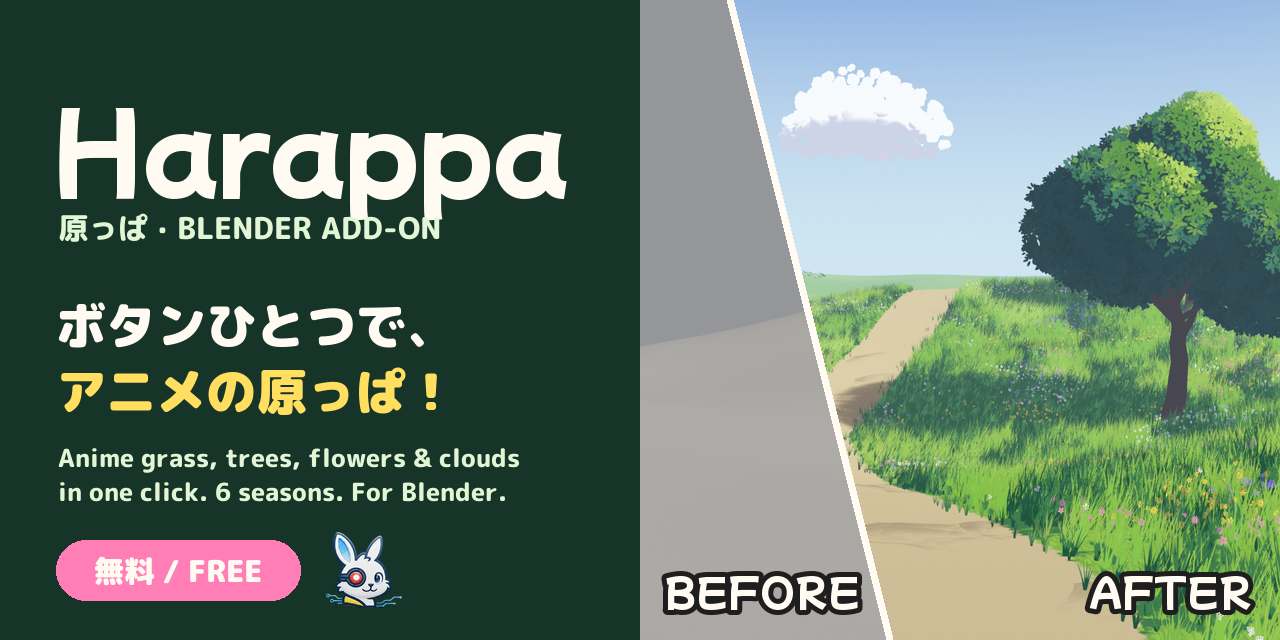
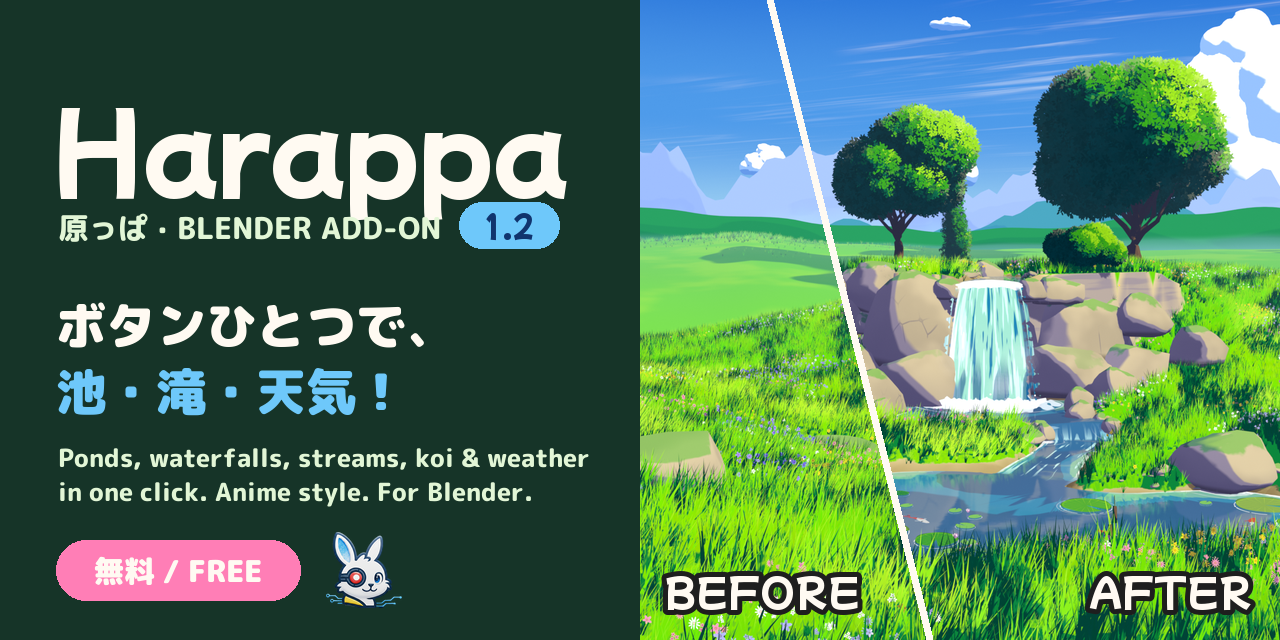
README: 1.2 card image and caption for the KanaWorks add-ons table

diff --git a/README.md b/README.md
@@ -319,7 +319,7 @@ Harappa を気に入ったら、[リポジトリのページ](https://github.com
 
 <table>
 <tr>
-<td align="center" width="50%"><a href="https://github.com/kanaworksai-hue/harappa"><img src="docs/social_preview.png" width="300" alt="Harappa"></a><br><b>Harappa</b>（このページ）<br><sub>アニメ背景の原っぱ・木・花・空をワンクリックで</sub></td>
+<td align="center" width="50%"><a href="https://github.com/kanaworksai-hue/harappa"><img src="docs/social_preview.png" width="300" alt="Harappa"></a><br><b>Harappa</b>（このページ）<br><sub>アニメ背景の原っぱ・木・空に、池・滝・天気までワンクリックで</sub></td>
 <td align="center" width="50%"><a href="https://github.com/kanaworksai-hue/senga-sketch"><img src="https://raw.githubusercontent.com/kanaworksai-hue/senga-sketch/main/docs/social_preview.png" width="300" alt="Senga Sketch"></a><br><b><a href="https://github.com/kanaworksai-hue/senga-sketch">Senga Sketch</a></b><br><sub>3D をペンで描いた線画に。ハッチング・鉛筆・銅版画・トーン</sub></td>
 </tr>
 <tr>

diff --git a/README.pt-BR.md b/README.pt-BR.md
@@ -319,7 +319,7 @@ Add-ons gratuitos e de código aberto para o Blender, do mesmo autor. Todos eles
 
 <table>
 <tr>
-<td align="center" width="50%"><a href="https://github.com/kanaworksai-hue/harappa"><img src="docs/social_preview.png" width="300" alt="Harappa"></a><br><b>Harappa</b> (esta página)<br><sub>Campos, árvores, flores e céu de cenário de anime em um clique</sub></td>
+<td align="center" width="50%"><a href="https://github.com/kanaworksai-hue/harappa"><img src="docs/social_preview.png" width="300" alt="Harappa"></a><br><b>Harappa</b> (esta página)<br><sub>Campos, árvores e céu de cenário de anime, com lagos, cascatas e clima, em um clique</sub></td>
 <td align="center" width="50%"><a href="https://github.com/kanaworksai-hue/senga-sketch"><img src="https://raw.githubusercontent.com/kanaworksai-hue/senga-sketch/main/docs/social_preview.png" width="300" alt="Senga Sketch"></a><br><b><a href="https://github.com/kanaworksai-hue/senga-sketch">Senga Sketch</a></b><br><sub>Do 3D para arte em traço de nanquim: hachura, lápis, gravura, retícula</sub></td>
 </tr>
 <tr>

diff --git a/README.es.md b/README.es.md
@@ -319,7 +319,7 @@ Complementos de Blender gratuitos y de código abierto del mismo autor. Todos fu
 
 <table>
 <tr>
-<td align="center" width="50%"><a href="https://github.com/kanaworksai-hue/harappa"><img src="docs/social_preview.png" width="300" alt="Harappa"></a><br><b>Harappa</b> (esta página)<br><sub>Prados, árboles, flores y cielo de fondo de anime en un solo clic</sub></td>
+<td align="center" width="50%"><a href="https://github.com/kanaworksai-hue/harappa"><img src="docs/social_preview.png" width="300" alt="Harappa"></a><br><b>Harappa</b> (esta página)<br><sub>Prados, árboles y cielo de fondo de anime, con estanques, cascadas y clima, en un solo clic</sub></td>
 <td align="center" width="50%"><a href="https://github.com/kanaworksai-hue/senga-sketch"><img src="https://raw.githubusercontent.com/kanaworksai-hue/senga-sketch/main/docs/social_preview.png" width="300" alt="Senga Sketch"></a><br><b><a href="https://github.com/kanaworksai-hue/senga-sketch">Senga Sketch</a></b><br><sub>De 3D a dibujo de línea a tinta: tramado, lápiz, grabado, trama</sub></td>
 </tr>
 <tr>

diff --git a/README.ko.md b/README.ko.md
@@ -319,7 +319,7 @@ Harappa가 마음에 드셨다면 [저장소 페이지](https://github.com/kanaw
 
 <table>
 <tr>
-<td align="center" width="50%"><a href="https://github.com/kanaworksai-hue/harappa"><img src="docs/social_preview.png" width="300" alt="Harappa"></a><br><b>Harappa</b> (이 페이지)<br><sub>애니 배경풍 초원, 나무, 꽃, 하늘을 클릭 한 번으로</sub></td>
+<td align="center" width="50%"><a href="https://github.com/kanaworksai-hue/harappa"><img src="docs/social_preview.png" width="300" alt="Harappa"></a><br><b>Harappa</b> (이 페이지)<br><sub>애니 배경풍 초원, 나무, 하늘에 연못, 폭포, 날씨까지 클릭 한 번으로</sub></td>
 <td align="center" width="50%"><a href="https://github.com/kanaworksai-hue/senga-sketch"><img src="https://raw.githubusercontent.com/kanaworksai-hue/senga-sketch/main/docs/social_preview.png" width="300" alt="Senga Sketch"></a><br><b><a href="https://github.com/kanaworksai-hue/senga-sketch">Senga Sketch</a></b><br><sub>3D를 펜화 선화로: 해칭, 연필, 판화, 스크린톤</sub></td>
 </tr>
 <tr>

diff --git a/README.en.md b/README.en.md
@@ -319,7 +319,7 @@ Free, open-source Blender add-ons by the same author. Every one of them works wi
 
 <table>
 <tr>
-<td align="center" width="50%"><a href="https://github.com/kanaworksai-hue/harappa"><img src="docs/social_preview.png" width="300" alt="Harappa"></a><br><b>Harappa</b> (this page)<br><sub>Anime-background meadows, trees, flowers and sky in one click</sub></td>
+<td align="center" width="50%"><a href="https://github.com/kanaworksai-hue/harappa"><img src="docs/social_preview.png" width="300" alt="Harappa"></a><br><b>Harappa</b> (this page)<br><sub>Anime-background meadows, trees and sky, plus ponds, waterfalls and weather, in one click</sub></td>
 <td align="center" width="50%"><a href="https://github.com/kanaworksai-hue/senga-sketch"><img src="https://raw.githubusercontent.com/kanaworksai-hue/senga-sketch/main/docs/social_preview.png" width="300" alt="Senga Sketch"></a><br><b><a href="https://github.com/kanaworksai-hue/senga-sketch">Senga Sketch</a></b><br><sub>3D into pen-and-ink line art: hatching, pencil, engraving, screentone</sub></td>
 </tr>
 <tr>

diff --git a/README.zh-CN.md b/README.zh-CN.md
@@ -319,7 +319,7 @@ Made with Harappa by @KanaWorks_AI
 
 <table>
 <tr>
-<td align="center" width="50%"><a href="https://github.com/kanaworksai-hue/harappa"><img src="docs/social_preview.png" width="300" alt="Harappa"></a><br><b>Harappa</b>（本页）<br><sub>一键生成动画背景的原野、树、花和天空</sub></td>
+<td align="center" width="50%"><a href="https://github.com/kanaworksai-hue/harappa"><img src="docs/social_preview.png" width="300" alt="Harappa"></a><br><b>Harappa</b>（本页）<br><sub>一键生成动画背景的原野、树和天空，还有池塘、瀑布和天气</sub></td>
 <td align="center" width="50%"><a href="https://github.com/kanaworksai-hue/senga-sketch"><img src="https://raw.githubusercontent.com/kanaworksai-hue/senga-sketch/main/docs/social_preview.png" width="300" alt="Senga Sketch"></a><br><b><a href="https://github.com/kanaworksai-hue/senga-sketch">Senga Sketch</a></b><br><sub>把 3D 变成钢笔线画：排线、铅笔、铜版画、网点</sub></td>
 </tr>
 <tr>
